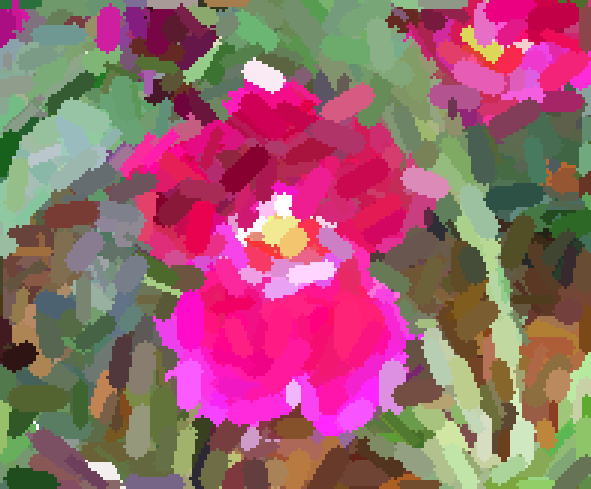
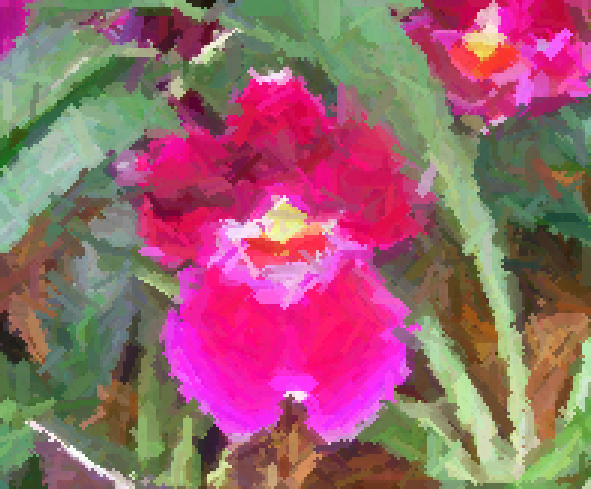
added brush alpha to drawing

diff --git a/p2/painters.py b/p2/painters.py
@@ -9,26 +9,20 @@ from pylab import *
 from scipy.misc import imsave
 
 from canny import *
+import time
 
 class Painter(object):
     image = None
     canvas = None
-    indices_x = None
-    indices_y = None
     radius = 3
     halfLen = 5
-
+    alpha = 1
 
     def load_image(self, image):
         self.image = image
         sizeIm = image.shape
         
-        self.canvas = np.empty((sizeIm[0], sizeIm[1], 3))
-        self.canvas.fill(-1)
-
-        [self.indices_x, self.indices_y] = np.meshgrid(
-                np.array([i + 1 for i in range(int(sizeIm[1]))]),
-                np.array([i + 1 for i in range(int(sizeIm[0]))]))
+        self.canvas = np.zeros((sizeIm[0], sizeIm[1], 4))
 
     def should_paint(self):
         raise NotImplementedError
@@ -48,10 +42,10 @@ class Painter(object):
         colour = self.get_colour(center)
         endpoint1, endpoint2 = self.get_stroke_endpoints(center)
 
-        self.canvas =  paintStroke(self.canvas, 
-                        self.indices_x, self.indices_y,
+        self.canvas =  paintStroke(self.canvas,
                         endpoint1, endpoint2,
-                        colour, self.radius)
+                        colour, self.radius,
+                        self.alpha)
 
 ###########################################################
 ## Part 1:
@@ -70,7 +64,7 @@ class P1Painter(Painter):
 
 
     def should_paint(self):
-        return np.where(self.canvas == -1)[0].size > 0
+        return np.where(self.canvas[:,:,3] < 1 )[0].size > 0
     
     def get_paint_coord(self):
         cntr = np.floor(
@@ -98,11 +92,13 @@ class P1Painter(Painter):
 class P2Painter(P1Painter):
 
     def get_paint_coord(self):
-         # get coordinates of unfilled regions
-        x, y, _ = np.where(self.canvas == -1)
+        # get coordinates of unfilled regions
+        # print(np.where(self.canvas[:,:,3] < 1))
+        x, y = np.where(self.canvas[:,:,3] < 1)
 
         # set the center to a random unfilled spot
-        index = random.randint(0, len(x) - 1)
+        
+        index = random.randint(0, len(x) - 1) if len(x) > 1 else 0
 
         return np.array([y[index] + 1, x[index] + 1])
 
@@ -288,13 +284,11 @@ class P6Painter(P5Painter):
 ## Painting helper methods
 ###########################################################
 
-
 def markStroke(mrkd, p0, p1, rad, val):
     # Mark the pixels that will be painted by
     # a stroke from pixel p0 = (x0, y0) to pixel p1 = (x1, y1).
     # These pixels are set to val in the ny x nx double array mrkd.
     # The paintbrush is circular with radius rad>0
-
     sizeIm = mrkd.shape
     sizeIm = sizeIm[0:2];
     nx = sizeIm[1]
@@ -324,10 +318,9 @@ def markStroke(mrkd, p0, p1, rad, val):
         t = q1 - q0
         nrmt = np.linalg.norm(t)
         [x, y] = np.meshgrid(np.array([i + 1 for i in range(int(szBB[1]))]),
-                             np.array([i + 1 for i in range(int(szBB[0]))]))
+        np.array([i + 1 for i in range(int(szBB[0]))]))
         d = np.zeros(szBB)
         d.fill(float("inf"))
-
         if nrmt == 0:
             # Use distance to point q0
             d = np.sqrt((x - q0[0]) ** 2 + (y - q0[1]) ** 2)
@@ -346,17 +339,15 @@ def markStroke(mrkd, p0, p1, rad, val):
             idx = (tmp > nrmt)
             if np.any(idx.flatten('F')):
                 d[np.where(idx)] = np.sqrt((x[np.where(idx)] - q1[0]) ** 2 + (y[np.where(idx)] - q1[1]) ** 2)
-
             #Pixels within crop box to paint have distance <= rad
             idx = (d <= rad)
-        #Mark the pixels
+            #Mark the pixels
         if np.any(idx.flatten('F')):
             xy = (bb0[1] - 1 + y[np.where(idx)] + sizeIm[0] * (bb0[0] + x[np.where(idx)] - 2)).astype(int)
             sz = mrkd.shape
             m = mrkd.flatten('F')
             m[xy - 1] = val
             mrkd = m.reshape(mrkd.shape[0], mrkd.shape[1], order='F')
-
             '''
             row = 0
             col = 0
@@ -367,23 +358,56 @@ def markStroke(mrkd, p0, p1, rad, val):
                 if row >= sz[0]:
                     row = 0
             '''
-
     return mrkd
 
-
-def paintStroke(canvas, x, y, p0, p1, colour, rad):
+def paintStroke(canvas, p0, p1, colour, rad, alpha):
     # Paint a stroke from pixel p0 = (x0, y0) to pixel p1 = (x1, y1)
     # on the canvas (ny x nx x 3 double array).
     # The stroke has rgb values given by colour (a 3 x 1 vector, with
     # values in [0, 1].  The paintbrush is circular with radius rad>0
-    sizeIm = canvas.shape
-    sizeIm = sizeIm[0:2]
-    idx = markStroke(np.zeros(sizeIm), p0, p1, rad, 1) > 0
-    # Paint
-    if np.any(idx.flatten('F')):
-        canvas = np.reshape(canvas, (np.prod(sizeIm), 3), "F")
-        xy = y[idx] + sizeIm[0] * (x[idx] - 1)
-        canvas[xy - 1, :] = np.tile(np.transpose(colour[:]), (len(xy), 1))
-        canvas = np.reshape(canvas, sizeIm + (3,), "F")
+    
+    sizeIm = canvas.shape[0:2]
+    
+    mask = markStroke(np.zeros(sizeIm), p0, p1, rad, 1)
+    mask = mask * alpha
+    
+    cmask = np.empty((sizeIm[0], sizeIm[1], 3))
+    cmask[:,:,0] = colour[0] * mask
+    cmask[:,:,1] = colour[1] * mask
+    cmask[:,:,2] = colour[2] * mask
+    
+    ones = np.empty(mask.shape)
+    ones.fill(1.0)
+    inverse_mask = ones - mask
+
+    canvas[:,:,0] = canvas[:,:,0] * inverse_mask
+    canvas[:,:,1] = canvas[:,:,1] * inverse_mask
+    canvas[:,:,2] = canvas[:,:,2] * inverse_mask
+    
+    canvas[:,:,0:3] = canvas[:,:,0:3] + cmask
+    canvas[:,:,3]   = canvas[:,:,3]   + mask
+
+    
+#    if random.random() < 0.01:
+#        subplot(2,2,1)    
+#        imshow(mask, cmap=cm.Greys);
+#        subplot(2,2,2)
+#        imshow(inverse_mask, cmap=cm.Greys);
+#        subplot(2,2,3)    
+#        imshow(cmask, cmap=cm.Greys);
+#        subplot(2,2,4)
+#        imshow(canvas[:,:,0:3])
+#        print("showing")
+#        show() # This does not block
+#        pause(10)
+#        sys.exit(1)
+    
     return canvas
 
+if __name__ == "__main__":
+    # os.chdir("/h/u17/g2/00/g1biggse/code/csc320/a2")
+    # os.chdir("/h/u17/g2/00/g4rbage/code/csc320/a2")
+
+    np.set_printoptions(threshold=np.nan)
+    import paintrend    
+    paintrend.main()

diff --git a/p2/paintrend.py b/p2/paintrend.py
@@ -1,4 +1,4 @@
-#!/usr/bin/python
+#!/local/packages/anaconda3/bin/python
 
 # ##########################################################################
 ## Handout painting code.
@@ -85,7 +85,10 @@ def parse_opts():
 def main():
     # select the painter based on opt
     # painter = parse_opts
-    painter, image_name = parse_opts()
+    #painter, image_name = parse_opts()
+    painter, image_name = P6Painter(), "orchid.jpg"
+    painter.base_radius = 2
+    painter.alpha = 0.7
 
     # Read image and convert it to double, and scale each R,G,B
     # channel to range [0,1].
@@ -114,13 +117,13 @@ def main():
 
         k += 1
         if k % 100 == 0:
-            debug("painted stroke %s (%s remaining)" % 
-                (k, len(np.where(painter.canvas == -1)[0])))
+            debug("painted stroke %s (%s pixels remaining)" % 
+                (k, np.where(painter.canvas[:,:,3] < 1 )[0].size))
 
     print("done!")
     time.time()
 
-    canvas = painter.canvas
+    canvas = painter.canvas[:,:,0:3]
 
     canvas[canvas < 0] = 0.0
     plt.clf()
